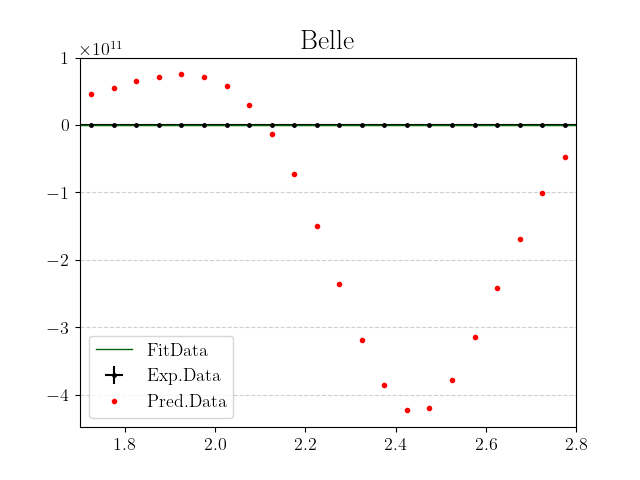
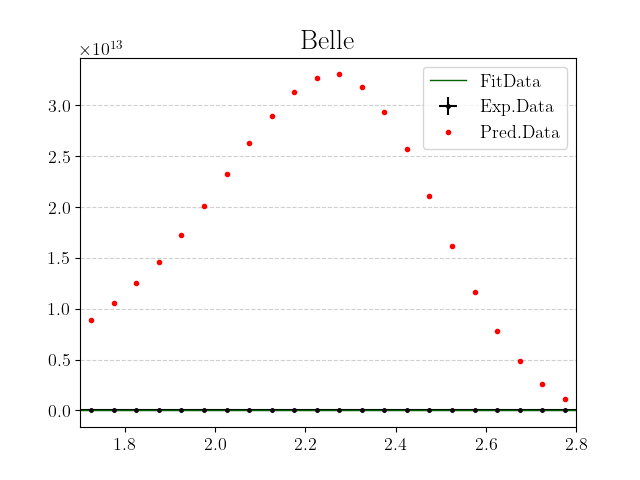
try fixing plottig

diff --git a/Plot.py b/Plot.py
@@ -91,7 +91,7 @@ class Plot:
         #test_fit_results = np.array([52.28810, 76.08732, 21.63939, 7.2753347, 0.167108, -0.107294])
         test_fit_results = np.array([0.9956, 0.0641, 0.0624, 0.0267])
         #test_norm = 2.30854 #FIXME: Correct normalization? Not working for lambda with c_n arrays smaller than the data in the files
-        test_norm = 4.925 
+        test_norm = 1.6 #4.925 
 
         y = self.measurement.BsgPrediction_full(key,end, test_fit_results, test_norm) + self.measurement.BsgSubLeadingPrediction(key, test_fit_results, test_norm)
 
@@ -119,7 +119,7 @@ class Plot:
             Plot.plot_histogram(self, self.measurement.hist_nom[key]['Bins'],self.measurement.hist_nom[key]['Values'], fig, ax,self.measurement.hist_nom[key]['Label'])
             plt.savefig('histogram/'+key+'_nomfit_hist')
         elif plt_opt == 3: #FIXME: Very specific with check Pred
-            self.check_pred(key, '055', fig,ax, box_opt=False, div_bin= div_bin)
+            self.check_pred(key, '0575', fig,ax, box_opt=False, div_bin= div_bin)
             Plot.plot_histogram(self, self.measurement.hist_nom[key]['Bins'], self.measurement.hist_nom[key]['Values'], fig, ax, self.measurement.hist_nom[key]['Label'], div_bin=div_bin)
             plt.legend()
             plt.savefig('theory/'+key+'_check_pred')
